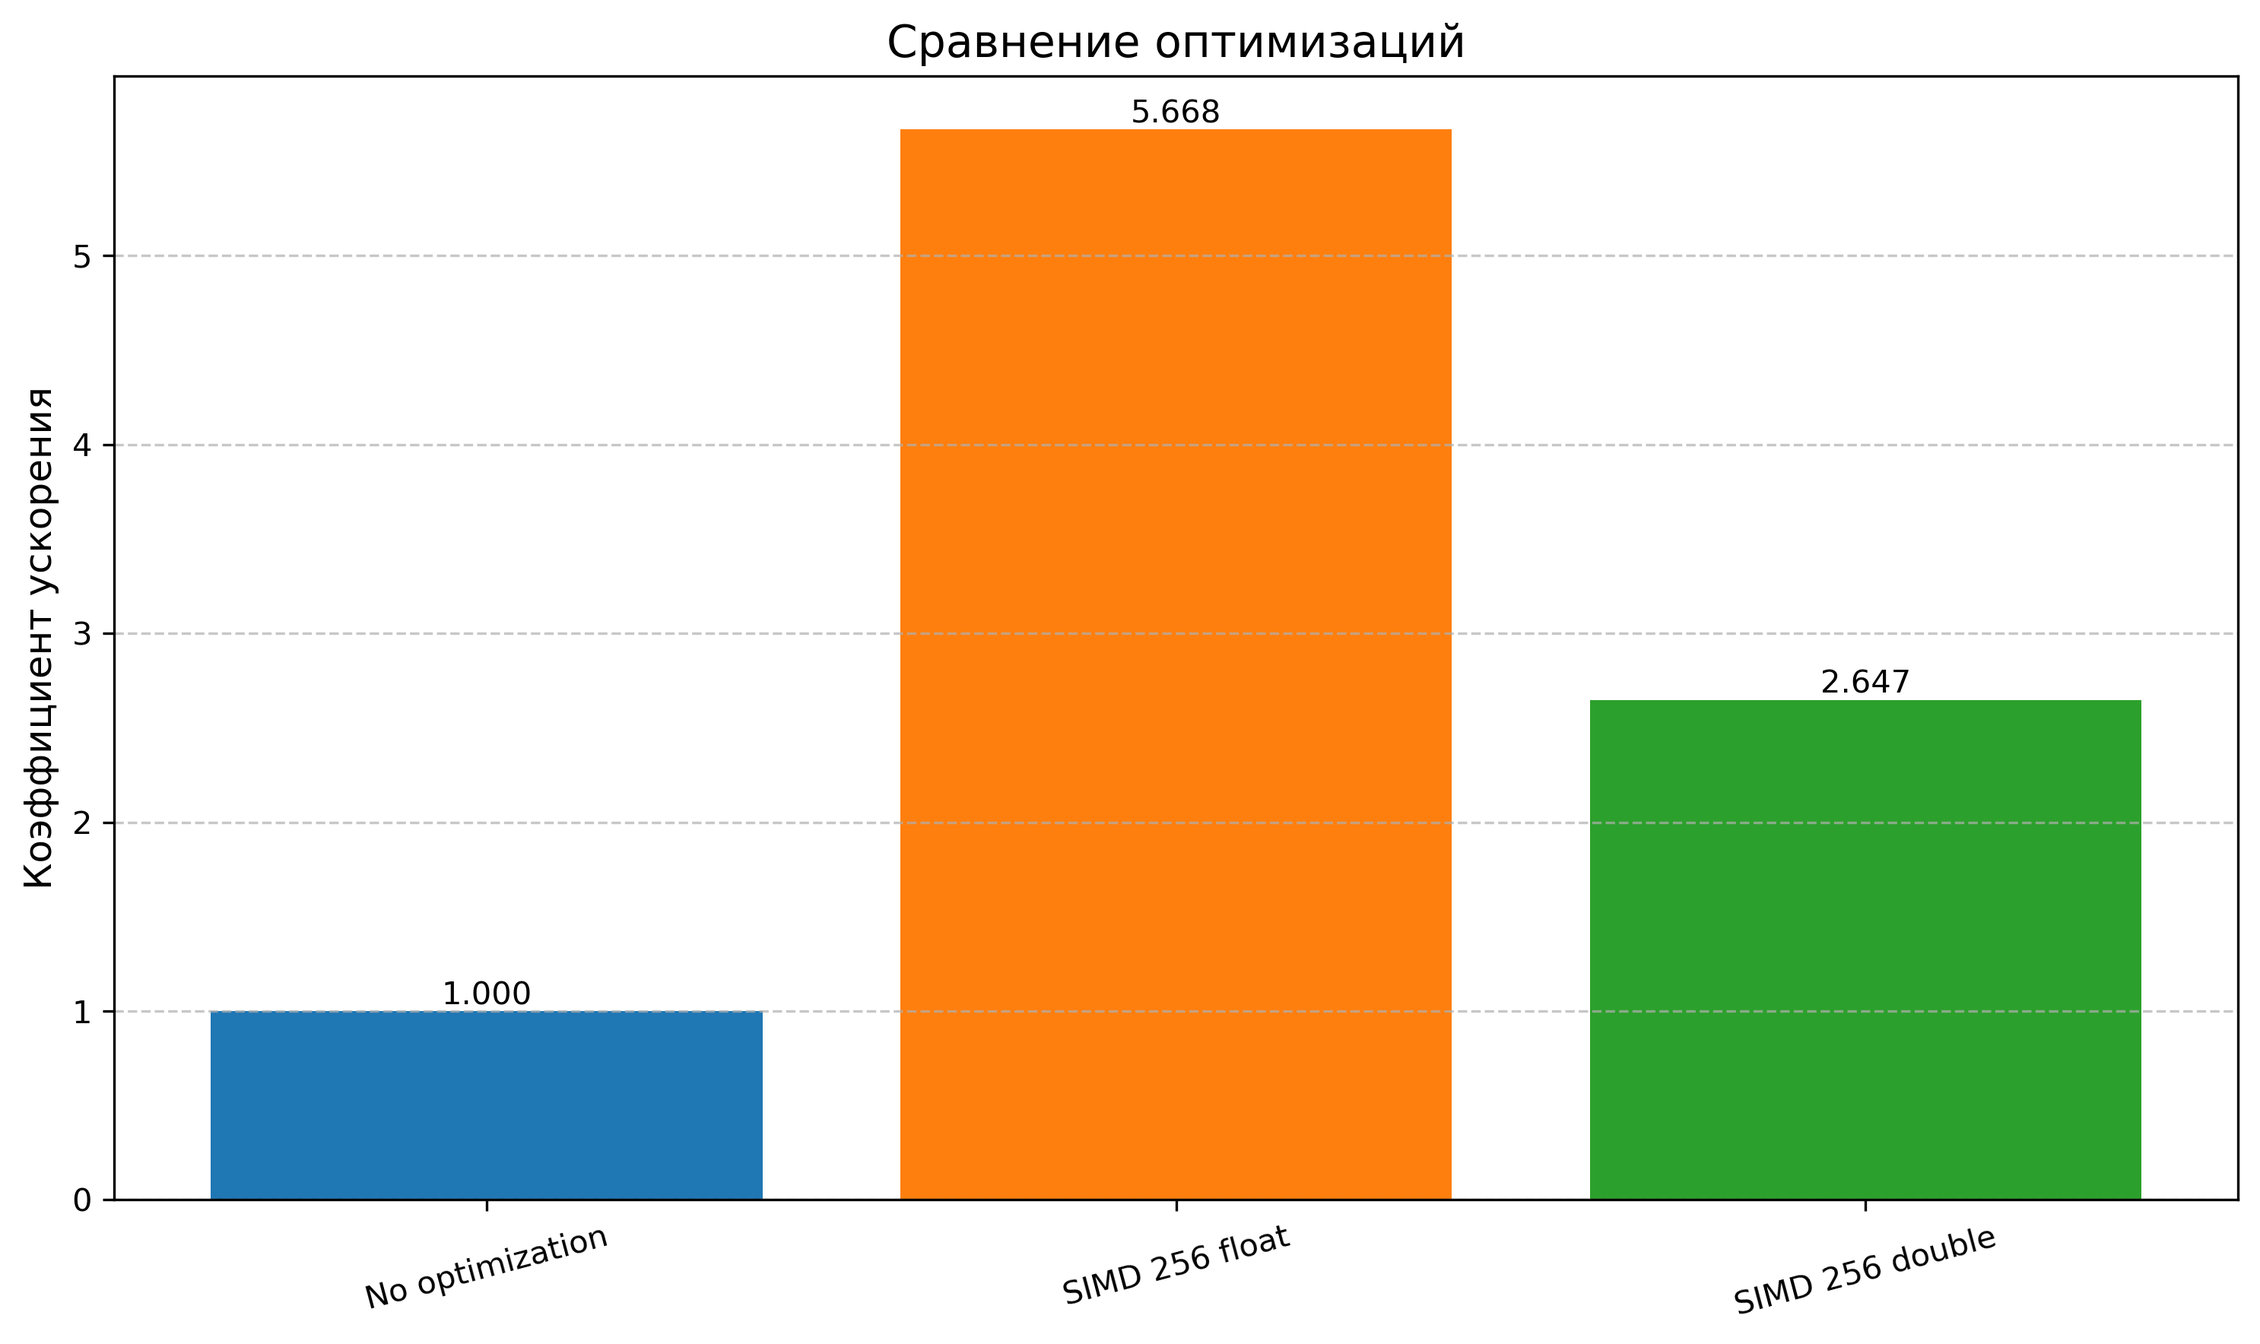
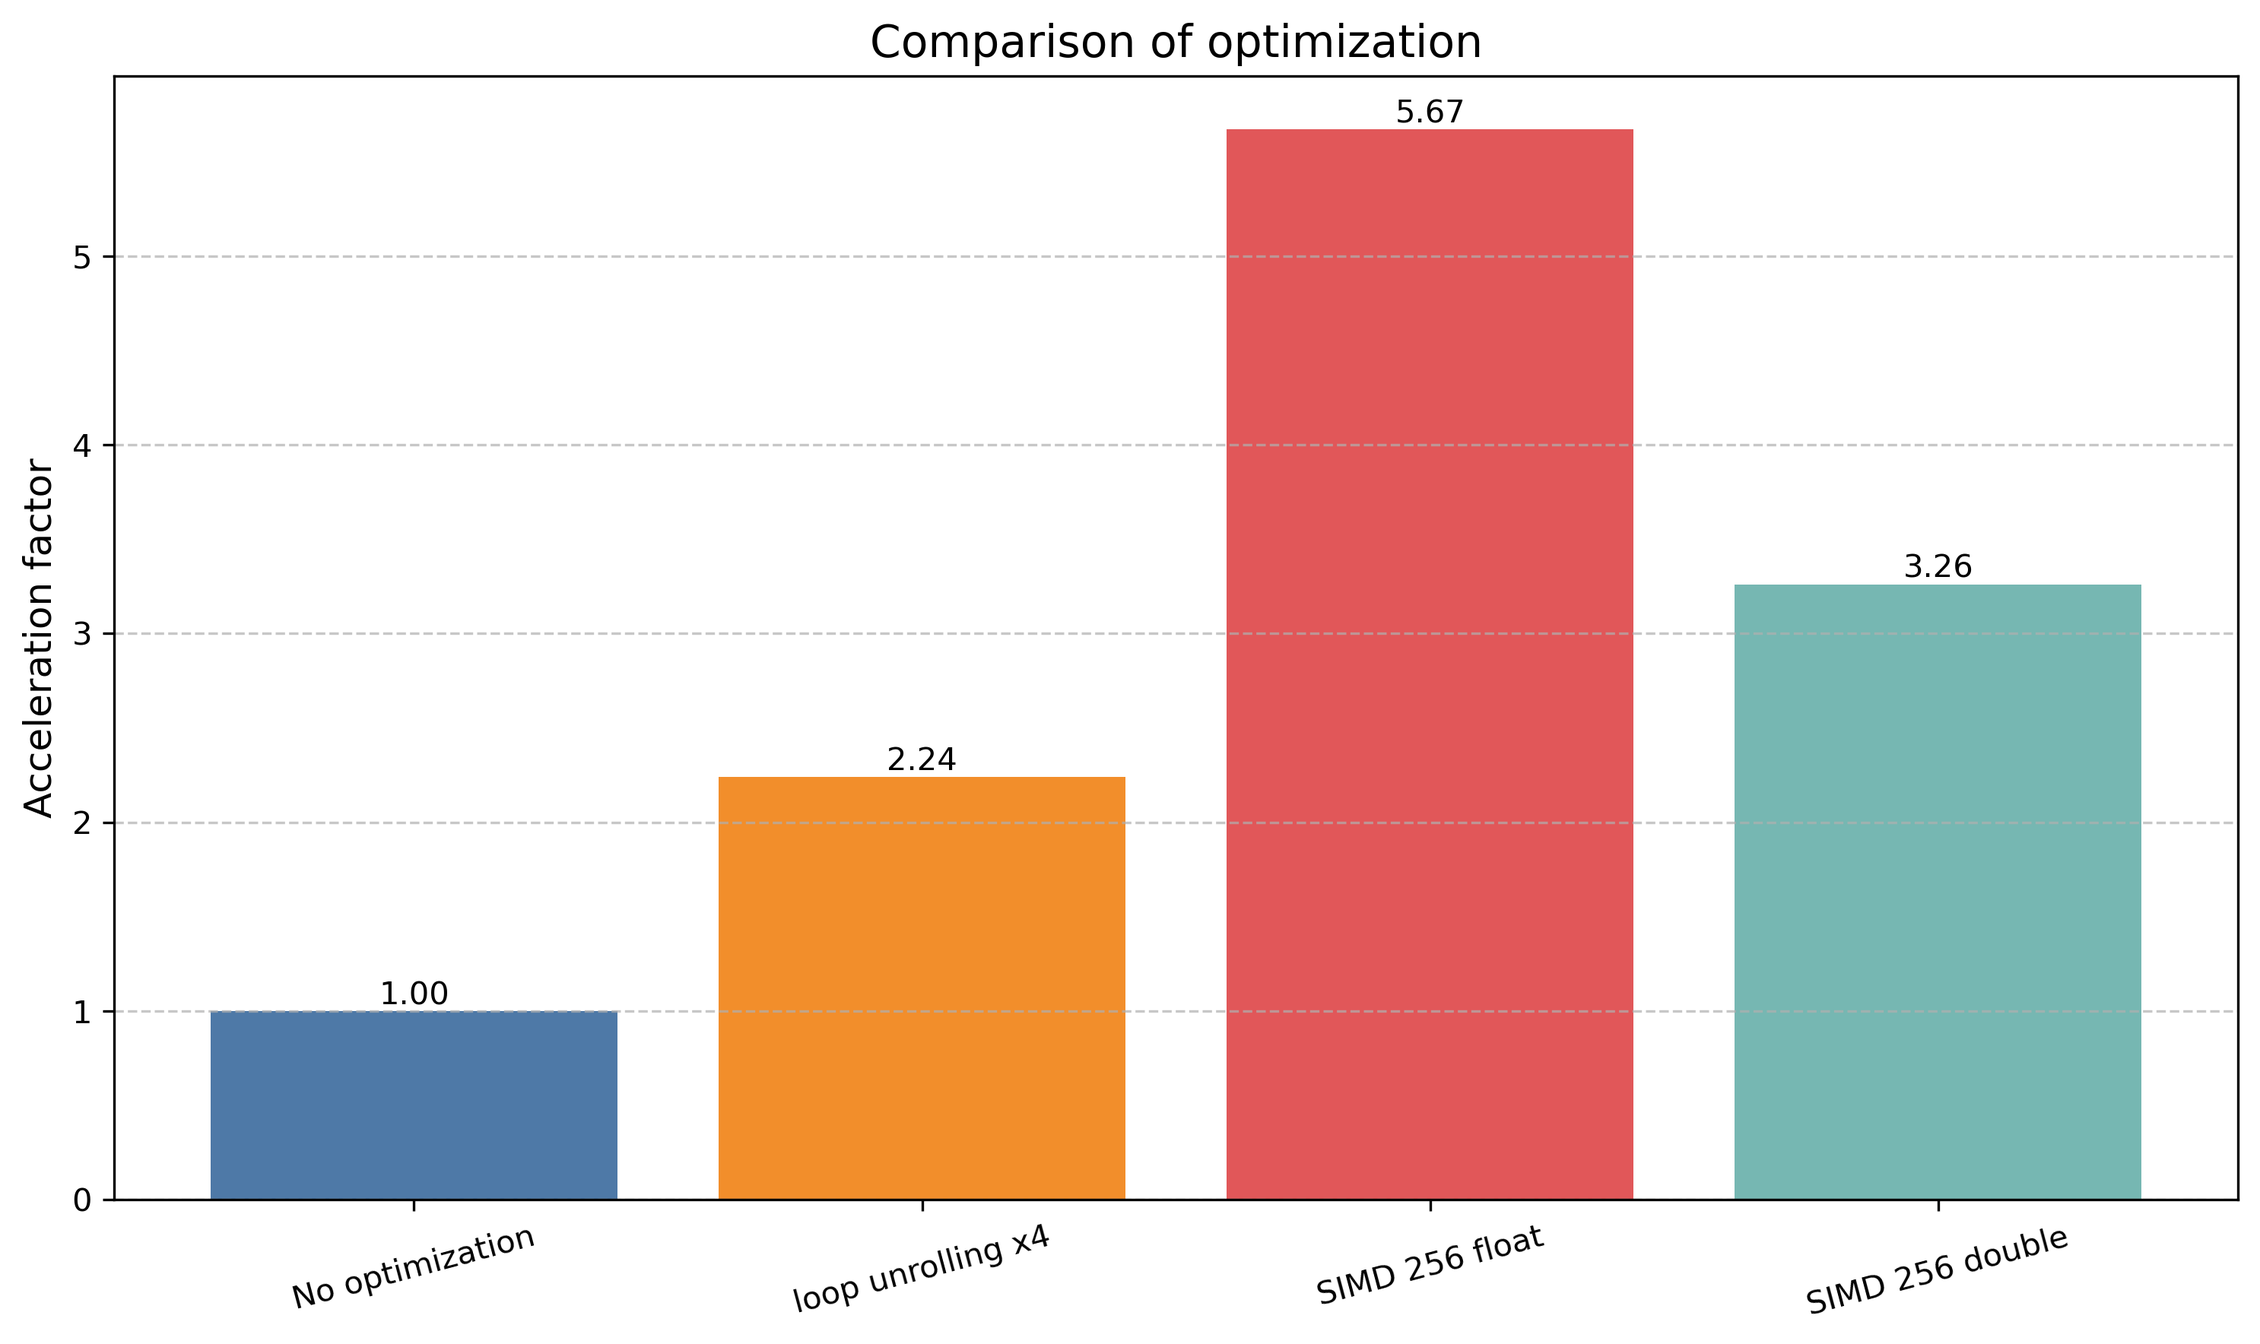
readme, readme....

diff --git a/src/computing.cpp b/src/computing.cpp
@@ -9,6 +9,90 @@ inline float ix_to_x0(int ix) {
     return (ix - WIDTH / 2.0) * 3.0 / (WIDTH * zoom) + offsetX;
 }
 
+void Loop_Unroll_compute_Mandelbrot(std::vector<sf::Uint8>& pixels) {
+    const size_t loop_unroll_degree = 8;
+    for (int iy = 0; iy < HEIGHT; iy++) {
+
+        //prepare y coords for ix iterations
+        float y0_coord = iy_to_y0(iy);
+        float y0[loop_unroll_degree] = {};
+        float y[loop_unroll_degree]  = {};
+
+        for (size_t i = 0; i < loop_unroll_degree; i++) {
+            y0[i] = y0_coord;
+        }
+
+        for (int ix = 0; ix < WIDTH; ix = ix + loop_unroll_degree) {
+            float x0[loop_unroll_degree] = {};
+            float x[loop_unroll_degree]  = {};
+
+            for (size_t i = 0; i < loop_unroll_degree; i++) {
+                x0[i] = ix_to_x0(ix + i);
+                x[i]  = x0[i];
+                y[i]  = y0_coord;
+            }
+
+            uint32_t active_mask = (1 << loop_unroll_degree) - 1;
+            size_t N = 0;
+
+            size_t iterations[loop_unroll_degree] = {};
+
+            float x2[loop_unroll_degree] = {};
+            float y2[loop_unroll_degree] = {};
+            float xy[loop_unroll_degree] = {};
+            float r2[loop_unroll_degree] = {};
+
+            for (; N < MAX_ITER; N++) {
+
+                for (size_t i = 0; i < loop_unroll_degree; i++) {
+                    float x_temp = x[i];
+                    float y_temp = y[i];
+                    x2[i] = x_temp * x_temp;
+                    y2[i] = y_temp * y_temp;
+                    xy[i] = x_temp * y_temp;
+                    r2[i] = x2[i]  + y2[i];
+                }
+
+                for (size_t i = 0; i < loop_unroll_degree; i++) {
+                    if (r2[i] > R2_MAX) {
+                        active_mask &= ~(1 << i);
+                    }
+                }
+
+                if (not active_mask) { break; }
+
+                for (size_t i = 0; i < loop_unroll_degree; i++) {
+                    if (!(active_mask & (1 << i))) continue;
+                    x[i] = x2[i] - y2[i] + x0[i];
+                    y[i] = xy[i] * 2 + y0[i];
+                    (iterations[i])++;
+                }
+            }
+
+            // RGBA for Mandelbrot set
+            // (50,  25, 170)       - set (N = MAX_ITER = 254, N % 2 == 0)
+            // (120, 25, 170)       - N % 2 == 0
+            // (50, 100, 170)       - N % 2 == 1
+
+            for (size_t i = 0; i < loop_unroll_degree; i++) {
+
+                size_t N = iterations[i];
+                float t = static_cast<float>(N) / MAX_ITER;
+                sf::Uint8 R = static_cast<sf::Uint8>(50 + 70 * (1 - t) * ((N + 1) / 2));
+                sf::Uint8 G = static_cast<sf::Uint8>(25 + 75 * (N % 2));
+                sf::Uint8 B = static_cast<sf::Uint8>(170);
+
+                // fill RGBA for pixel
+                int index = (iy * WIDTH + ix + i) * 4;
+                pixels[index]     = R;
+                pixels[index + 1] = G;
+                pixels[index + 2] = B;
+                pixels[index + 3] = 255;
+            }
+        }
+    }
+}
+
 void computeMandelbrot(std::vector<sf::Uint8>& pixels) {
     for (int iy = 0; iy < HEIGHT; iy++) {
         for (int ix = 0; ix < WIDTH; ix++) {
@@ -27,6 +111,7 @@ void computeMandelbrot(std::vector<sf::Uint8>& pixels) {
             // (50,  25, 170)       - set (N = MAX_ITER = 254, N % 2 == 0)
             // (120, 25, 170)       - N % 2 == 0
             // (50, 100, 170)       - N % 2 == 1
+
             float t = static_cast<float>(N) / MAX_ITER;
             sf::Uint8 R = static_cast<sf::Uint8>(50 + 70 * (1 - t) * ((N+1) / 2));
             sf::Uint8 G = static_cast<sf::Uint8>(25 + 75 * (N % 2));
@@ -43,10 +128,12 @@ void computeMandelbrot(std::vector<sf::Uint8>& pixels) {
 }
 
 void SIMD_m256s_computeMandelbrot(std::vector<sf::Uint8>& pixels) {
+    //assert(pixels);
+    //#pragma omp parallel for
     for (int iy = 0; iy < HEIGHT; iy++) {
         __m256 y0 = _mm256_set1_ps(iy_to_y0(iy));
 
-        for (int ix = 0; ix < WIDTH; ix += 8) {
+        for (int ix = 0; ix < WIDTH - 8; ix += 8) {
             __m256 x0 = _mm256_set_ps(  ix_to_x0(ix+7), ix_to_x0(ix+6), ix_to_x0(ix+5), ix_to_x0(ix+4),
                                         ix_to_x0(ix+3), ix_to_x0(ix+2), ix_to_x0(ix+1), ix_to_x0(ix) );
 
@@ -69,7 +156,7 @@ void SIMD_m256s_computeMandelbrot(std::vector<sf::Uint8>& pixels) {
                 y = _mm256_add_ps(_mm256_add_ps(xy, xy), y0);
             }
 
-            float N_results[8];
+            alignas(32) float N_results[8];
             _mm256_store_ps(N_results, N);
 
             for (size_t i = 0; i < 8; i++) {
@@ -121,10 +208,10 @@ void SIMD_m256d_computeMandelbrot(std::vector<sf::Uint8>& pixels) {
                 y = _mm256_add_pd(_mm256_add_pd(xy, xy), y0);
             }
 
-            double N_results[8];
+            alignas(32) double N_results[4];
             _mm256_store_pd(N_results, N);
 
-            for (size_t i = 0; i < 8; i++) {
+            for (size_t i = 0; i < 4; i++) {
                 bool parity = static_cast<int>(N_results[i]) % 2;
 
                 // (50,  25, 170)       - set (N = MAX_ITER = 254, N % 2 == 0)

diff --git a/src/computing_testing.cpp b/src/computing_testing.cpp
@@ -1,13 +1,16 @@
 #include "computing_testing.h"
 #include "params.h"
 
-const ComputingFuncPtr* Funcs_for_test[] = {&computeMandelbrot, &SIMD_m256s_computeMandelbrot, &SIMD_m256d_computeMandelbrot};
+const ComputingFuncPtr* Funcs_for_test[] = {&computeMandelbrot, &Loop_Unroll_compute_Mandelbrot,
+                                            &SIMD_m256s_computeMandelbrot, &SIMD_m256d_computeMandelbrot};
+const size_t n_funcs_for_testing = sizeof(Funcs_for_test) / sizeof(Funcs_for_test[0]);
+
+const size_t benchmark_index = 0;
+const char dump_file_name[] = "run_results.txt";
 
 void run_tests(size_t n_tests) {
 
     std::vector<sf::Uint8> pixels(WIDTH * HEIGHT * 4);
-
-    size_t n_funcs_for_testing = sizeof(Funcs_for_test) / sizeof(Funcs_for_test[0]);
     printf("Number of functions to test: %zu\n", n_funcs_for_testing);
     uint64_t test_results[n_funcs_for_testing] = {};
     uint64_t normilized_test_results[n_funcs_for_testing] = {};
@@ -28,27 +31,6 @@ void run_tests(size_t n_tests) {
         test_results[n] = temp_res;
         temp_res = 0;
     }
-    /*
-    SIMD_m256d_computeMandelbrot(pixels);
-    for (size_t i = 0; i < n_tests; i++) {
-        uint64_t start = rdtsc();
-        SIMD_m256d_computeMandelbrot(pixels);
-        uint64_t end = rdtsc();
-        temp_res += end - start;
-    }
-    test_results[1] = temp_res;
-    temp_res = 0;
-
-    SIMD_m256s_computeMandelbrot(pixels);
-    for (size_t i = 0; i < n_tests; i++) {
-        uint64_t start = rdtsc();
-        SIMD_m256s_computeMandelbrot(pixels);
-        uint64_t end = rdtsc();
-        temp_res += end - start;
-    }
-    test_results[2] = temp_res;
-    temp_res = 0;
-    */
 
     printf("-----Testing results-----\n");
     printf("Number of processor cycles per function:\n");
@@ -56,9 +38,52 @@ void run_tests(size_t n_tests) {
         printf("%zu: %lu\n", i, test_results[i]);
     }
 
-    printf("Normilizes values:\n");
-    double prior_elem = static_cast<double>(test_results[0]);
+    printf("Normilized values:\n");
+    double benchmark_elem = static_cast<double>(test_results[benchmark_index]);
     for (size_t i = 0; i < n_funcs_for_testing; i++) {
-        printf("%zu: %lf\n", i, prior_elem / test_results[i]);
+        printf("%zu: %lf\n", i, benchmark_elem / test_results[i]);
+    }
+
+    file_dump(test_results);
+}
+
+size_t uint64_array_to_string(char* buffer, size_t buffer_size, const uint64_t* array, size_t array_len) {
+    char* ptr = buffer;
+    int remaining = buffer_size;
+
+    for (size_t i = 0; i < array_len; ++i) {
+        int written = snprintf(ptr, remaining, "%lu \n", array[i]);
+
+        if (written < 0 || written >= remaining) {
+            break;
+        }
+
+        ptr += written;
+        remaining -= written;
+    }
+
+    printf("Buffer is ready for fwrite of %zu bytes: \"%s\"\n", (size_t)(ptr - buffer), buffer);
+    return (size_t)(ptr - buffer);
+}
+
+void file_dump(uint64_t* test_results) {
+    assert(test_results);
+
+    char results_string[BUFSIZ] = "";
+    size_t written = uint64_array_to_string(results_string, BUFSIZ, test_results, n_funcs_for_testing);
+
+    char file_name[64] = "";
+    snprintf(file_name, 64, "dump/%s", dump_file_name);
+
+    FILE* fp = fopen(file_name, "a+");
+    if (fp == NULL) {
+        fprintf(stderr, "Could not open file for writing %s in %s in %s:%d", dump_file_name, __func__, __FILE__, __LINE__);
+        return;
+    }
+
+    fwrite(results_string, written, sizeof(char), fp);
+
+    if (not fclose(fp)) {
+        fprintf(stderr, "Could not close file after writing %s in %s in %s:%d", dump_file_name, __func__, __FILE__, __LINE__);
     }
 }

diff --git a/headers/computing.h b/headers/computing.h
@@ -5,15 +5,13 @@
 #include <x86intrin.h>
 #include <cmath>
 #include <vector>
+#include <assert.h>
 
 typedef void (ComputingFuncPtr)(std::vector<sf::Uint8>& pixels);
 
 ComputingFuncPtr computeMandelbrot;
+ComputingFuncPtr Loop_Unroll_compute_Mandelbrot;
 ComputingFuncPtr SIMD_m256s_computeMandelbrot;
 ComputingFuncPtr SIMD_m256d_computeMandelbrot;
-/*
-void computeMandelbrot(std::vector<sf::Uint8>& pixels);
-void SIMD_m256s_computeMandelbrot(std::vector<sf::Uint8>& pixels);
-void SIMD_m256d_computeMandelbrot(std::vector<sf::Uint8>& pixels);
-*/
+
 #endif

diff --git a/headers/computing_testing.h b/headers/computing_testing.h
@@ -12,5 +12,7 @@ inline uint64_t rdtsc() {
 }
 
 void run_tests(size_t n_tests);
+size_t uint64_array_to_string(char* buffer, size_t buffer_size, const uint64_t* array, size_t array_len);
+void file_dump(uint64_t* test_results);
 
 #endif

diff --git a/README.md b/README.md
@@ -1,15 +1,51 @@
 # Mandelbrot Set
 
-Множество Мандельброта - множество точек c на комплексной плоскости, для которых рекуррентное соотношение z(n+1) = z(n)^2 + c при z(0) = 0 задаёт ограниченную последовательность. Иными словами, это множество таких c, для которых существует такое действительное R, что неравенство
-|z(n)| < R выполняется при всех натуральных n.
+The Mandelbrot set is the set of points C in the complex plane for which the recurrence relation z(n+1) = z(n)^2 + C at z(0) = 0 defines a bounded sequence. In other words, it is the set of C for which there exists a real R such that the inequality
+|z(n)| < R holds for all natural n.
 
-Задача: отрисовка множества мандельброта с графическим выводом, с последующей оптимизацией через SIMD вычисления.
-Для определения эффективности оптимизации проводилось тестирование с использоваланием интринсика rdtsc для подсчета числа тактов процессора на вычисления для заданного количества (100) кадров. Было протестировано два варианта вычислений через SIMD: для float и double на 256-битовых регистрах. Результаты представлены на диаграмме:
-![picture](readme_pic//optimization_comparison.png)
-Наибольший прирост производительности наблюдается на версии с float (32 бита) - на каждой итерации цикла вычислений проводится расчет сразу для 8 пикселей, в то время как для double (64 бита) - 4, без оптимизации - только один.
+## Task
+ Drawing the Mandelbrot set with graphical output, followed by optimization via SIMD calculations.
 
-В запущенном приложении можно перемещаться по изображению с помощью клавиш <kbd>W</kbd> <kbd>A</kbd> <kbd>S</kbd> <kbd>D</kbd>, а также увеличивать и уменьшать его с помощью <kbd>E</kbd> и <kbd>Q</kbd>.
+## Calculations
 
-Здесь просто примеры получившейся картинки.
+For each pixel in the displayed window, a sequence of points on the complex plane is calculated, starting from the point C corresponding to the pixel, using the recursive formula z(n+1) = z(n)^2 + C, until the iteration number N exceeds MAX_ITER = 255 or z(N) leaves the circle with the center at the origin of fixed radius (10). The resulting number N is converted to RGBA in a certain way to display the Mandelbrot set, RGBA are written to an array for subsequent rendering.
+
+## Optimizations
+
+To determine the efficiency of the optimization, testing was carried out using the rdtsc intrinsic to count the number of processor cycles for calculations for a given number (100) of frames. Two variants of calculations via SIMD were tested: for float and double on 256-bit registers. The results are represented in the tables and diagrams:
+
+### acceleration testing results
+
+Accelaration compared with basic version (No Optimization) compiled with O0:
+Flages | No Optimization | Loop Unrolling x4 | SIMD 256 float | SIMD 256 double |
+|-----|-----|-----|-----|-----|
+| O0 | 1.0   | 0.884 | 2.911  | 1.657 |
+| O1 | 2.661 | 2.899 | 14.625 | 8.358 |
+| O2 |2.566  | 3.333 | 14.551 | 8.276 |
+| O3 |2.567  | 5.099 | 14.344 | 8.353 |
+
+Accelaration compared with basic version compiled with the matching flags for each column:
+Flages | Loop Unrolling x4 | SIMD 256 float | SIMD 256 double |
+|-----|-----|-----|-----|
+| O0 | 0.884| 2.911 | 1.657 |
+| O1 | 1.089| 5.496 | 3.141 |
+| O2 | 1.299| 5.671 | 3.226 |
+| O3 | 1.987| 5.588 | 3.254 |
+
+![picture](readme_pic//optimization_comparison_loop_unroll.png)
+
+![picture](readme_pic//optimization_comparison_SIMD256double.png)
+![picture](readme_pic//optimization_comparison_SIMD256float.png)
+
+Final comparison of optimizations compiled with O3:
+
+![picture](readme_pic//optimization_comparison_O0.png)
+![picture](readme_pic//optimization_comparison_O3.png)
+The greatest performance gain is observed in the version with float (32 bits) - at each iteration of the calculation cycle, calculations are performed for 8 pixels at once, while for double (64 bits) - 4, without optimization - only one.
+
+## Graphical mode
+
+In the running application, you can navigate the image using the keys <kbd>W</kbd> <kbd>A</kbd> <kbd>S</kbd> <kbd>D</kbd>, and also zoom in and out using <kbd>E</kbd> and <kbd>Q</kbd>.
+
 ![picture](readme_pic//Mandelbrot-set.png)
 ![picture](readme_pic//Mandelbrot-set-zoomed.png)
